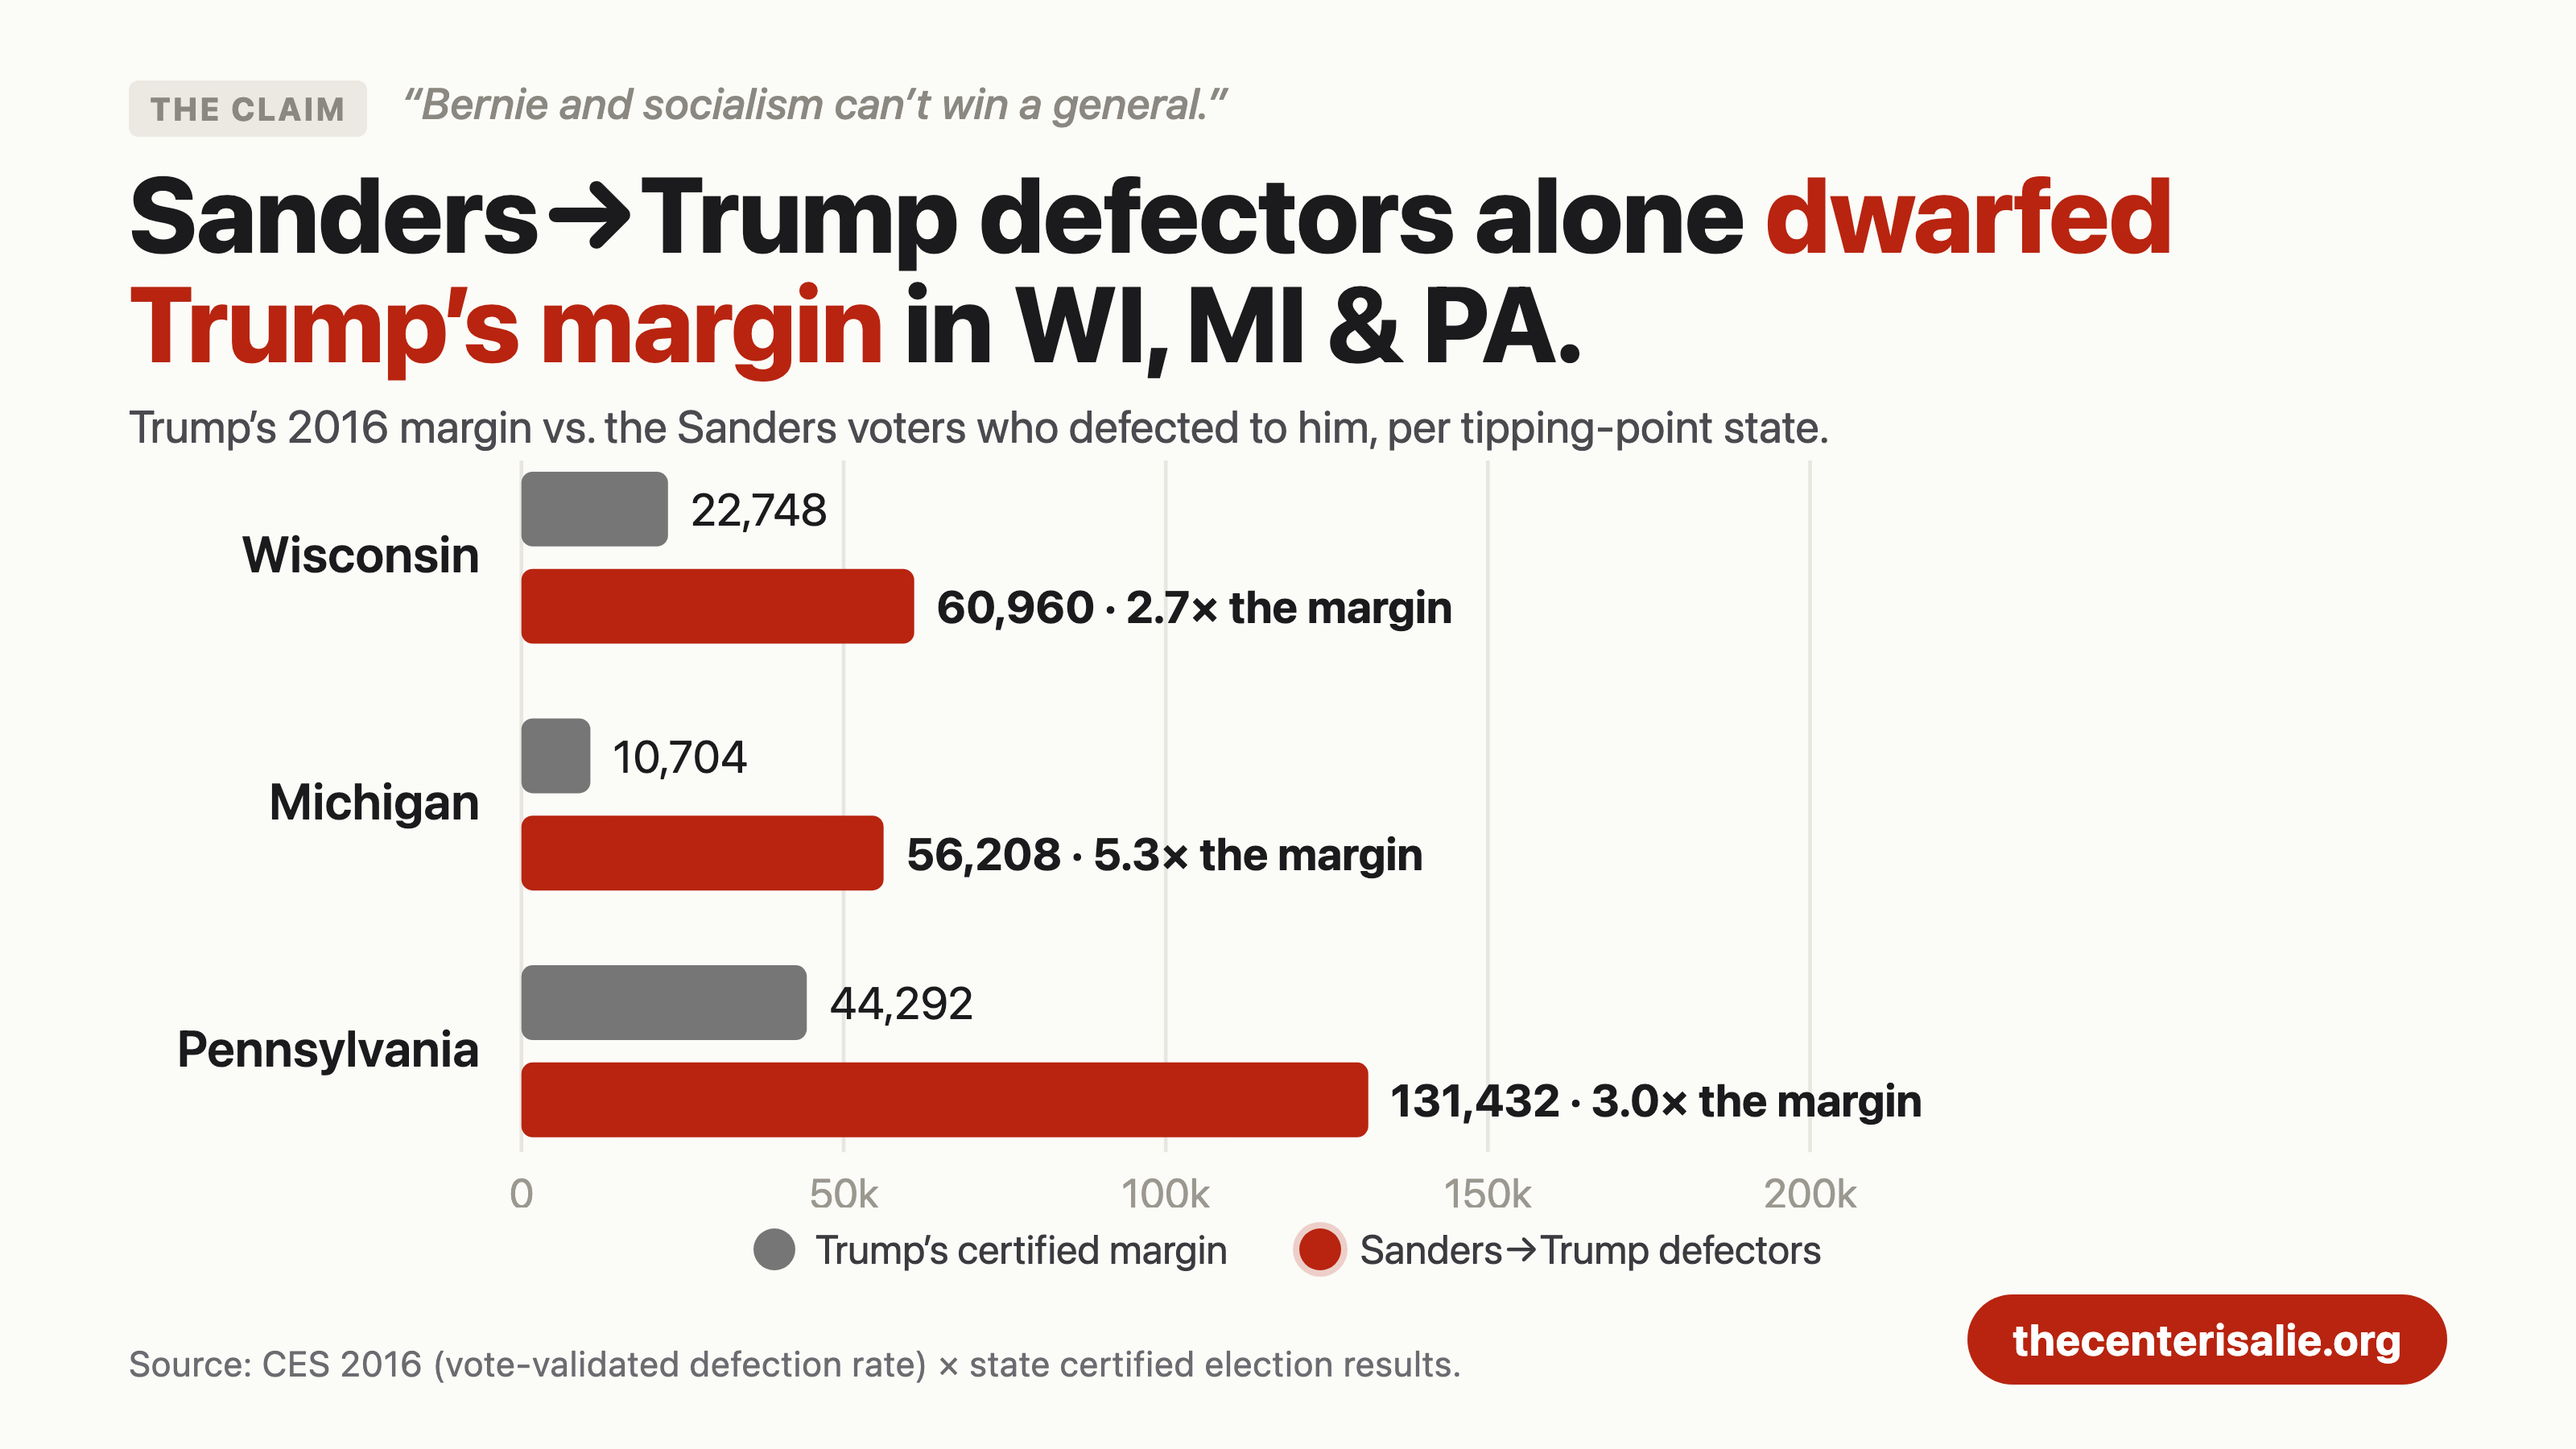
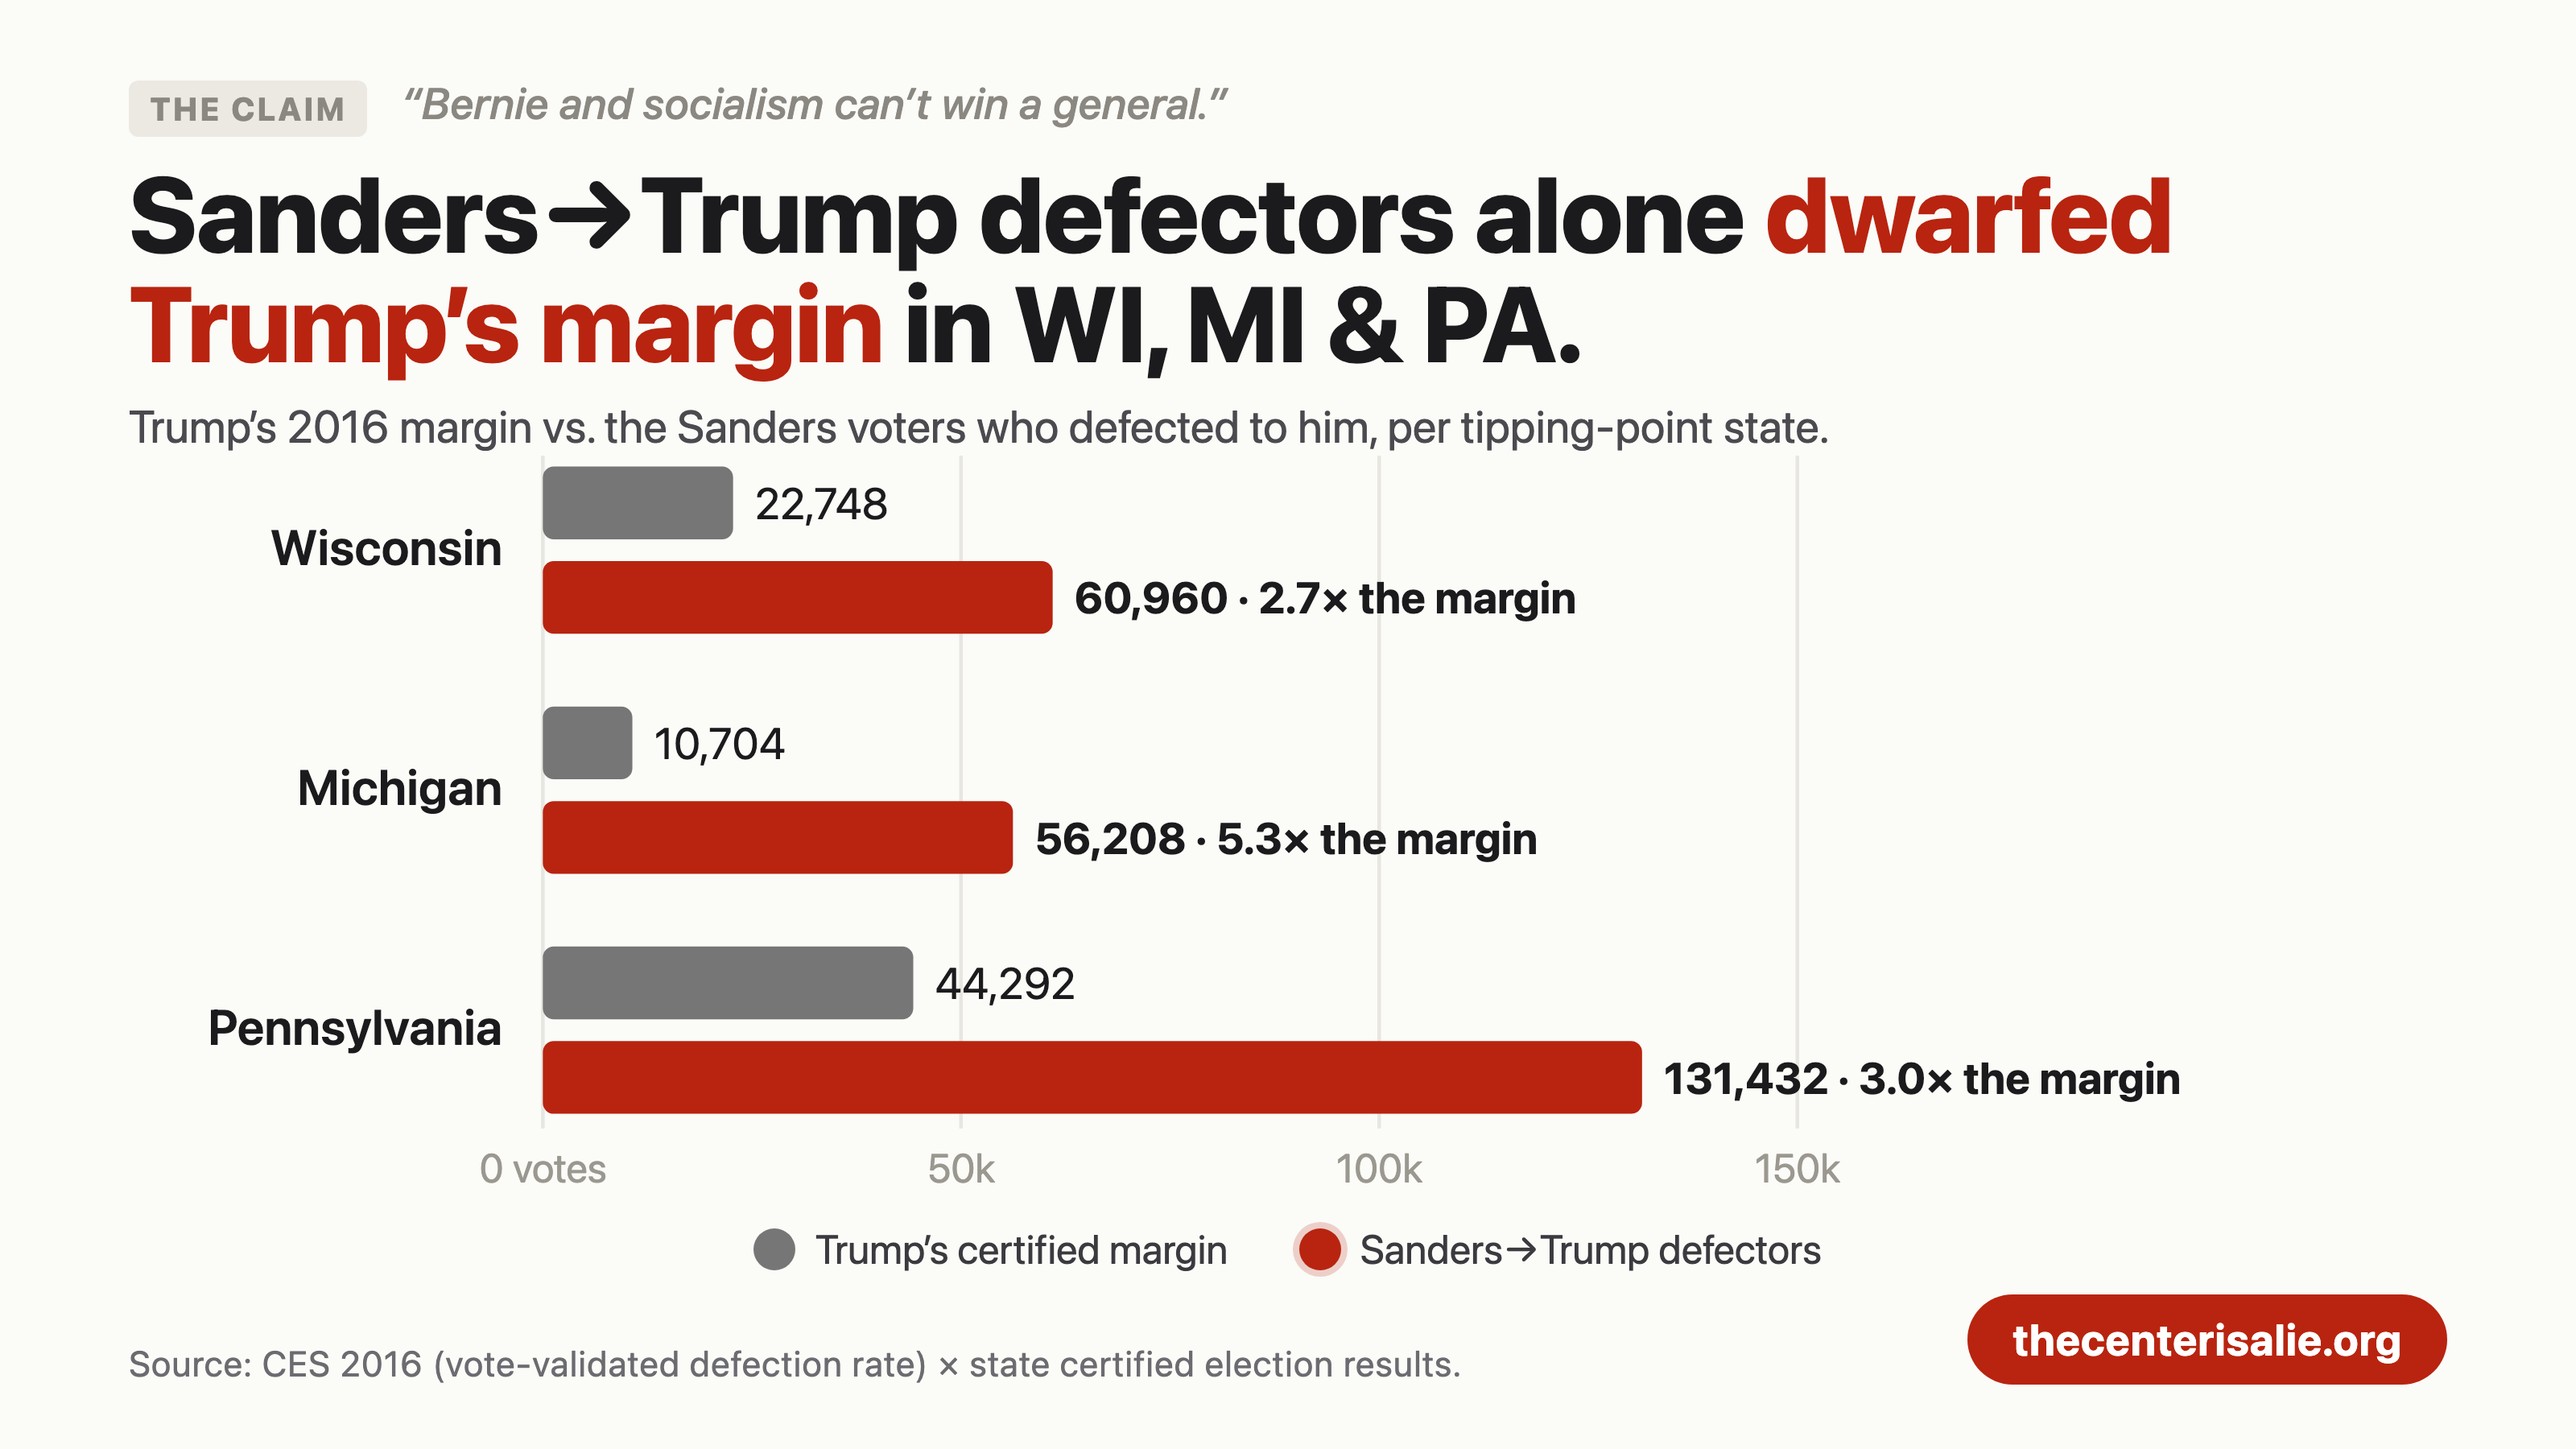
fix(og): fill frame on margins, trust, rr; label rr axis and gap
- margins: kill the clip, add 'votes' unit, retick to 150k so bars fill.
- trust: enlarge plot to fill the card.
- rr: add a plain-language y-axis title, dash the 1988-2000 leg that spans
  the unfielded 1992-96 years and mark it 'not asked'.

Changed region(s): [[0.0625, 0.6533, 0.8438, 0.84], [0.0938, 0.3111, 0.625, 0.6222], [0.5625, 0.8089, 0.5938, 0.84]]

diff --git a/web/og-cards/chart-rr.html b/web/og-cards/chart-rr.html
@@ -6,7 +6,7 @@
     <div class="cc-title">It wasn&rsquo;t just the economy &mdash; racial resentment&rsquo;s vote-weight <span class="hl">tripled</span>.</div>
     <div class="cc-sub">Electoral weight of racial resentment on the presidential vote, net of ideology and party ID.</div>
 
-    <div class="cc-chart"><svg id="rr" viewBox="0 0 1240 400" role="img"
+    <div class="cc-chart"><svg id="rr" viewBox="0 0 1240 449" role="img"
       aria-label="Racial resentment's electoral weight rose from 0.48 in 1988 to 1.55 in 2016, staying elevated through 2024"></svg></div>
 
     <div class="cc-foot">
@@ -19,24 +19,31 @@
     const NS = 'http://www.w3.org/2000/svg';
     const svg = document.getElementById('rr');
     const el = (t, a) => { const n = document.createElementNS(NS, t); for (const k in a) n.setAttribute(k, a[k]); return n; };
+    const txt = (a, s) => { const t = el('text', a); t.textContent = s; svg.appendChild(t); return t; };
     const D = [[1988, 0.48], [2000, 0.33], [2004, 0.69], [2008, 0.98], [2012, 0.88], [2016, 1.55], [2020, 1.48], [2024, 1.18]];
-    const X0 = 110, X1 = 1150, axisY = 320, topY = 40, YMAX = 1.7, YR0 = 1988, YR1 = 2024;
+    const X0 = 150, X1 = 1150, axisY = 372, topY = 44, YMAX = 1.7, YR0 = 1988, YR1 = 2024;
     const x = (yr) => X0 + (yr - YR0) / (YR1 - YR0) * (X1 - X0);
     const y = (v) => axisY - v / YMAX * (axisY - topY);
     // gridlines + y ticks
     [0, 0.5, 1.0, 1.5].forEach((v) => {
       svg.appendChild(el('line', { x1: X0, y1: y(v), x2: X1, y2: y(v), stroke: '#eae7e0', 'stroke-width': 2 }));
-      const t = el('text', { x: X0 - 16, y: y(v) + 8, 'text-anchor': 'end', fill: '#9a988f', 'font-size': 22 }); t.textContent = v.toFixed(1); svg.appendChild(t);
+      txt({ x: X0 - 18, y: y(v) + 8, 'text-anchor': 'end', fill: '#9a988f', 'font-size': 22 }, v.toFixed(1));
     });
-    // line
-    let d = ''; D.forEach((p, i) => d += (i ? ' L' : 'M') + ` ${x(p[0])} ${y(p[1])}`);
-    svg.appendChild(el('path', { d, fill: 'none', stroke: '#b8240f', 'stroke-width': 5, 'stroke-linejoin': 'round' }));
+    // rotated y-axis title
+    const yt = el('text', { x: 40, y: (topY + axisY) / 2, 'text-anchor': 'middle', fill: '#8a887f', 'font-size': 22, 'font-style': 'italic', transform: `rotate(-90 40 ${(topY + axisY) / 2})` }); yt.textContent = 'pull on the vote, net of party & ideology'; svg.appendChild(yt);
+    // line — the 1988→2000 leg spans unfielded years, so draw it dashed
+    D.forEach((p, i) => {
+      if (i === 0) return;
+      const a = D[i - 1];
+      svg.appendChild(el('line', { x1: x(a[0]), y1: y(a[1]), x2: x(p[0]), y2: y(p[1]), stroke: '#b8240f', 'stroke-width': 5, 'stroke-linecap': 'round', ...(i === 1 ? { 'stroke-dasharray': '3 11' } : {}) }));
+    });
     D.forEach((p) => {
       svg.appendChild(el('circle', { cx: x(p[0]), cy: y(p[1]), r: 8, fill: '#b8240f', stroke: '#fbfbf8', 'stroke-width': 3 }));
-      const t = el('text', { x: x(p[0]), y: axisY + 34, 'text-anchor': 'middle', fill: '#8a887f', 'font-size': 21 }); t.textContent = "’" + String(p[0]).slice(2); svg.appendChild(t);
+      txt({ x: x(p[0]), y: axisY + 34, 'text-anchor': 'middle', fill: '#8a887f', 'font-size': 21 }, "’" + String(p[0]).slice(2));
     });
+    txt({ x: x(1994), y: axisY + 34, 'text-anchor': 'middle', fill: '#b0ada4', 'font-size': 18, 'font-style': 'italic' }, 'not asked');
     // peak callout
-    const pk = el('text', { x: x(2016), y: y(1.55) - 20, 'text-anchor': 'middle', fill: '#b8240f', 'font-size': 26, 'font-weight': 800 }); pk.textContent = '2016 peak: 1.55'; svg.appendChild(pk);
-    const st = el('text', { x: x(1988), y: y(0.48) + 40, 'text-anchor': 'start', fill: '#8a887f', 'font-size': 22 }); st.textContent = '1988: 0.48'; svg.appendChild(st);
+    txt({ x: x(2016), y: y(1.55) - 22, 'text-anchor': 'middle', fill: '#b8240f', 'font-size': 27, 'font-weight': 800 }, '2016 peak: 1.55');
+    txt({ x: x(1988) + 8, y: y(0.48) + 42, 'text-anchor': 'start', fill: '#8a887f', 'font-size': 22 }, '1988: 0.48');
   </script>
 </body></html>

diff --git a/web/og-cards/chart-margins.html b/web/og-cards/chart-margins.html
@@ -6,7 +6,7 @@
     <div class="cc-title">Sanders&rarr;Trump defectors alone <span class="hl">dwarfed Trump&rsquo;s margin</span> in WI, MI &amp; PA.</div>
     <div class="cc-sub">Trump&rsquo;s 2016 margin vs. the Sanders voters who defected to him, per tipping-point state.</div>
 
-    <div class="cc-chart"><svg id="margins" viewBox="0 0 1240 400" role="img"
+    <div class="cc-chart"><svg id="margins" viewBox="0 0 1240 416" role="img"
       aria-label="Per decisive state, Sanders-to-Trump defectors exceeded Trump's margin 2.7x-5.3x"></svg></div>
 
     <div class="cc-legend">
@@ -30,16 +30,16 @@
       { st: 'Michigan',     margin: 10704, defect: 56208,  mult: '5.3×' },
       { st: 'Pennsylvania', margin: 44292, defect: 131432, mult: '3.0×' },
     ];
-    const X0 = 210, X1 = 980, XMAX = 223434, sc = (X1 - X0) / XMAX;
+    const X0 = 210, X1 = 900, XMAX = 150000, sc = (X1 - X0) / XMAX;
     const barH = 40, innerGap = 12, groupGap = 40, y0 = 6;
     const groupH = barH * 2 + innerGap;
     const axisY = y0 + states.length * (groupH + groupGap) - groupGap + 8;
     // gridlines + axis ticks (0, 50k, 100k, 150k, 200k)
-    for (let v = 0; v <= 200000; v += 50000) {
+    for (let v = 0; v <= 150000; v += 50000) {
       const x = X0 + v * sc;
       svg.appendChild(el('line', { x1: x, y1: 0, x2: x, y2: axisY, stroke: '#e8e6e0', 'stroke-width': 2 }));
       const t = el('text', { x, y: axisY + 30, 'text-anchor': 'middle', fill: '#9a988f', 'font-size': 22 });
-      t.textContent = v === 0 ? '0' : (v / 1000) + 'k'; svg.appendChild(t);
+      t.textContent = v === 0 ? '0 votes' : (v / 1000) + 'k'; svg.appendChild(t);
     }
     states.forEach((s, i) => {
       const gy = y0 + i * (groupH + groupGap);

diff --git a/web/og-cards/chart-trust.html b/web/og-cards/chart-trust.html
@@ -6,7 +6,7 @@
     <div class="cc-title">In 1964, <span class="hl">3 in 4</span> trusted government. Today, about 1 in 7.</div>
     <div class="cc-sub">Share saying they trust the government in Washington to do what&rsquo;s right &ldquo;always or most of the time.&rdquo;</div>
 
-    <div class="cc-chart"><svg id="tr" viewBox="0 0 1240 388" role="img"
+    <div class="cc-chart"><svg id="tr" viewBox="0 0 1240 449" role="img"
       aria-label="Trust in government fell from 78% in 1964 to 15% in 2024"></svg></div>
 
     <div class="cc-foot">
@@ -20,7 +20,7 @@
     const svg = document.getElementById('tr');
     const el = (t, a) => { const n = document.createElementNS(NS, t); for (const k in a) n.setAttribute(k, a[k]); return n; };
     const D = [[1958,76],[1964,78],[1966,68],[1968,63],[1970,55],[1972,54],[1974,37],[1976,34],[1978,30],[1980,26],[1982,34],[1984,45],[1986,39],[1988,41],[1990,28],[1992,29],[1994,22],[1996,33],[1998,40],[2000,44],[2002,55],[2004,46],[2008,31],[2012,22],[2016,12],[2020,15],[2024,15]];
-    const X0 = 110, X1 = 1160, axisY = 320, topY = 36, YMAX = 85, YR0 = 1958, YR1 = 2024;
+    const X0 = 110, X1 = 1160, axisY = 380, topY = 40, YMAX = 85, YR0 = 1958, YR1 = 2024;
     const x = (yr) => X0 + (yr - YR0) / (YR1 - YR0) * (X1 - X0);
     const y = (v) => axisY - v / YMAX * (axisY - topY);
     [0, 25, 50, 75].forEach((v) => {
